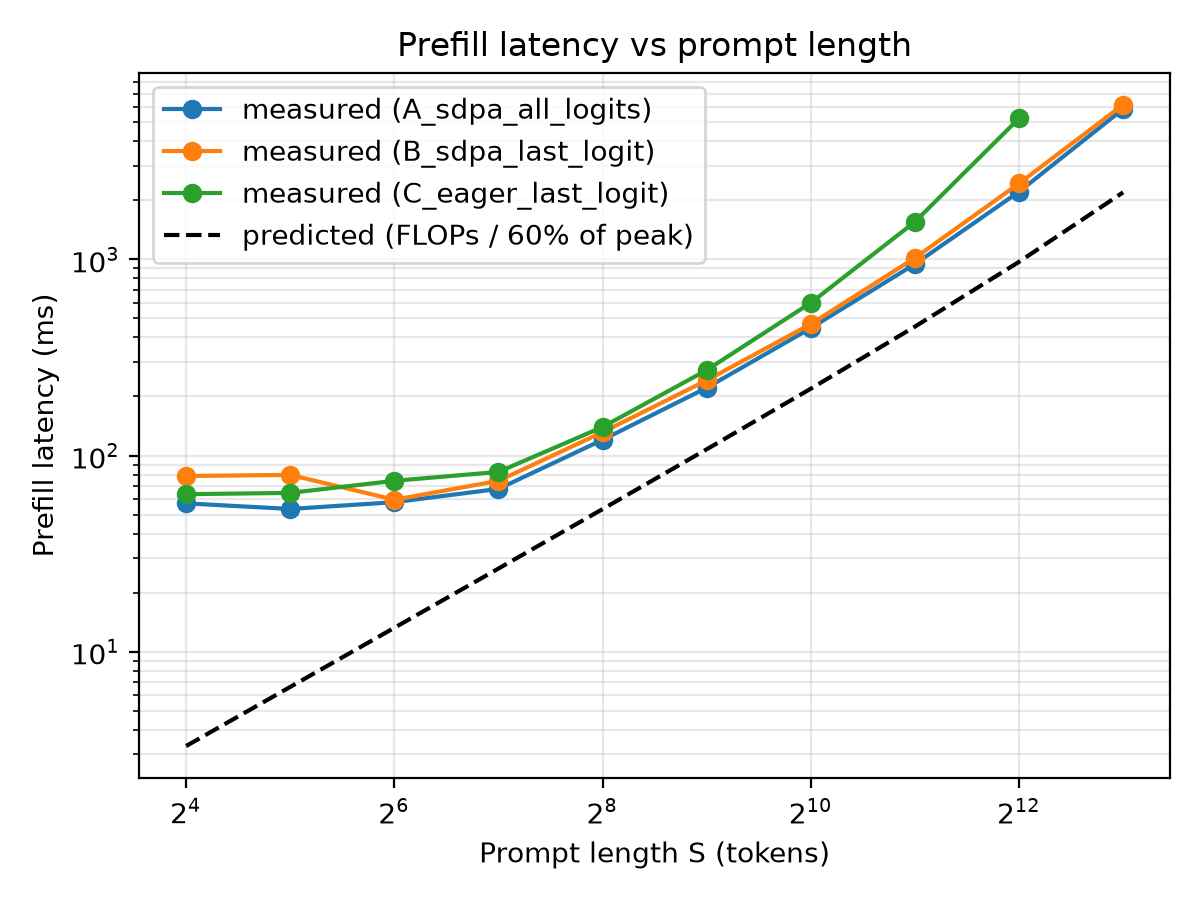
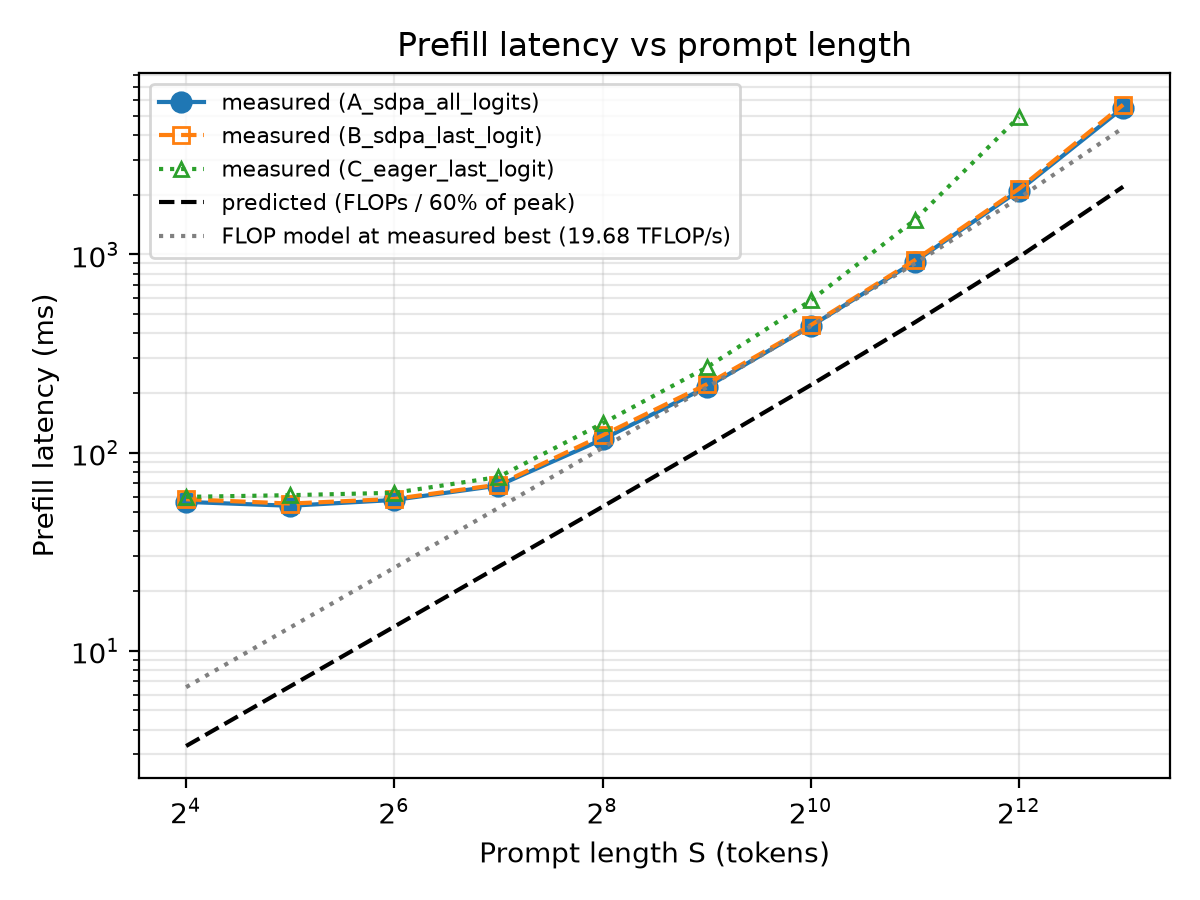
Add files via upload

diff --git a/prefill_results/plot_results.py b/prefill_results/plot_results.py
@@ -31,35 +31,61 @@ def main():
 
     dfs = {label_of(c): pd.read_csv(c).query("status == 'ok'") for c in args.csvs}
 
-    # 1. Latency vs prompt length, with compute-bound prediction
+    # Runs often overlap almost exactly, so each run gets its own colour, marker
+    # and line style, used consistently across every graph.
+    styles = [("o", "-"), ("s", "--"), ("^", ":"), ("D", "-.")]
+    colors = plt.rcParams["axes.prop_cycle"].by_key()["color"]
+
+    def run_style(i):
+        m, ls = styles[i % len(styles)]
+        return dict(color=colors[i % len(colors)], marker=m, ls=ls,
+                    markersize=7 - i, fillstyle="none" if i else "full")
+
+    # 1. Latency vs prompt length, with compute-bound predictions
     plt.figure(figsize=(6, 4.5))
-    for name, df in dfs.items():
-        plt.plot(df.S, df.latency_ms_median, "o-", label=f"measured ({name})")
+    for i, (name, df) in enumerate(dfs.items()):
+        plt.plot(df.S, df.latency_ms_median, label=f"measured ({name})", **run_style(i))
     ref = next(iter(dfs.values()))
     pred_ms = ref.flops_total / (args.peak_tflops * 1e12 * args.eff) * 1000
     plt.plot(ref.S, pred_ms, "k--", label=f"predicted (FLOPs / {args.eff:.0%} of peak)")
+    # Same FLOP model, but with the efficiency the GPU actually reached at its best.
+    # If measured points follow this line, latency *scales* as the FLOP model says.
+    best_tflops = ref.achieved_tflops.max()
+    plt.plot(ref.S, ref.flops_total / (best_tflops * 1e12) * 1000, color="gray", ls=":",
+             label=f"FLOP model at measured best ({best_tflops:.2f} TFLOP/s)")
     plt.xscale("log", base=2); plt.yscale("log")
     plt.xlabel("Prompt length S (tokens)"); plt.ylabel("Prefill latency (ms)")
     plt.title("Prefill latency vs prompt length"); plt.grid(True, which="both", alpha=0.3)
-    plt.legend(); plt.tight_layout()
+    plt.legend(fontsize=8); plt.tight_layout()
     plt.savefig(f"{args.outdir}/latency_vs_S.png", dpi=200)
 
-    # 2. Peak memory vs prompt length, with prediction
+    # 2. Peak memory vs prompt length, with prediction (same colour per run;
+    # runs with identical predictions share one dashed line)
     plt.figure(figsize=(6, 4.5))
-    for name, df in dfs.items():
-        plt.plot(df.S, df.peak_alloc_bytes / 1e9, "o-", label=f"measured peak ({name})")
-        plt.plot(df.S, df.mem_total_pred / 1e9, "--", label=f"predicted: weights+KV+logits ({name})")
+    groups = []  # [(color index, S, prediction, [run names])]
+    for i, (name, df) in enumerate(dfs.items()):
+        plt.plot(df.S, df.peak_alloc_bytes / 1e9, label=f"measured ({name})", **run_style(i))
+        pred = (df.mem_total_pred / 1e9).values
+        for g in groups:
+            n = min(len(g[2]), len(pred))
+            if abs(g[2][:n] - pred[:n]).max() < 1e-3:
+                g[3].append(name)
+                break
+        else:
+            groups.append((i, df.S.values, pred, [name]))
+    for i, S, pred, names in groups:
+        plt.plot(S, pred, color=colors[i % len(colors)], ls="--", lw=1.2,
+                 label=f"predicted ({' & '.join(names)})")
     plt.xscale("log", base=2)
-    plt.xlabel("Prompt length S (tokens)"); plt.ylabel("Memory (GB)")
-    plt.title("Peak GPU memory vs prompt length"); plt.grid(True, alpha=0.3)
+    plt.xlabel("Prompt length S (tokens)"); plt.ylabel("Peak memory (GB)")
+    plt.title("Peak GPU memory vs prompt length\n(predicted = weights + KV cache + logits)")
+    plt.grid(True, alpha=0.3)
     plt.legend(fontsize=8); plt.tight_layout()
     plt.savefig(f"{args.outdir}/memory_vs_S.png", dpi=200)
 
     # 3. Achieved throughput (TFLOP/s) vs prompt length
-    # Runs often overlap almost exactly, so each gets its own marker/line style,
-    # and the y-axis is zoomed to the data (GPU peak is stated in the title
+    # The y-axis is zoomed to the data (GPU peak is stated in the title
     # instead of drawn, since a line at the peak squashes the data to the floor).
-    styles = [("o", "-"), ("s", "--"), ("^", ":"), ("D", "-.")]
     plt.figure(figsize=(6, 4.5))
     for i, (name, df) in enumerate(dfs.items()):
         m, ls = styles[i % len(styles)]
